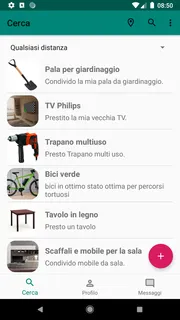
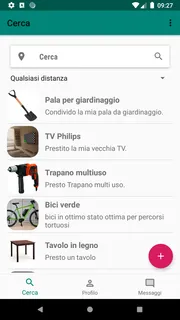
Update README.md

diff --git a/README.md b/README.md
@@ -11,7 +11,7 @@ buttando quelli “vecchi” pur essendo ancora funzionali, oppure altri di cui 
 ## Login e registrazione
 ![alt text](https://github.com/simone7687/LiveLight/blob/master/images/Login.webp "Login")     ![alt text](https://github.com/simone7687/LiveLight/blob/master/images/Registration.webp "Registration")
 
-Quando viene aperta l'app per la prima volta o quando non si è loggati, l'applicazione, dopo una verifica di login nel [**Main**](https://github.com/simone7687/LiveLight/blob/master/README.md#main), ci porta alla schermata di **Login**.
+Quando viene aperta l'app per la prima volta o quando non si è loggati, l'applicazione, dopo una verifica di login nel [**Main**](https://github.com/simone7687/LiveLight#main), ci porta alla schermata di **Login**.
 
 **Nel caso in cui si è registrati**, basterà loggarsi con le credenziali.
 
@@ -31,21 +31,21 @@ Quando viene aperta l'app per la prima volta o quando non si è loggati, l'appli
 
 ## Main
 
-Dopo il **login** o **all'apertura dell'app** verrà mostrata la pagina principale, detta [**Main**](https://github.com/simone7687/LiveLight/blob/master/README.md#main), che mostrerà il "Fragment" di profilo.
+Dopo il **login** o **all'apertura dell'app** verrà mostrata la pagina principale, detta [**Main**](https://github.com/simone7687/LiveLight#main), che mostrerà il "Fragment" di profilo.
 
 Il Main è l'Activity principale dell'applicazione che è composta da:
 
-- un **Bottone circolare (Floating Action Button)** che permette di accedere alla scheda di [pubblicazione di un Post](https://github.com/simone7687/LiveLight/blob/master/README.md#postare-un-articolo)
+- un **Bottone circolare (Floating Action Button)** che permette di accedere alla scheda di [pubblicazione di un Post](https://github.com/simone7687/LiveLight#postare-un-articolo)
 - la barra superiore (Tool Bar) che permette di accedere alle **Impostazioni** o di effettuare il **Logout**
-- la barra inferiore composta da tre icone/pulsanti che permettono di accedere alle schermate (Fragment) di [**Profilo**](https://github.com/simone7687/LiveLight/blob/master/README.md#profilo), [**Ricerca**](https://github.com/simone7687/LiveLight/blob/master/README.md#ricerca) e [**Messaggi**](https://github.com/simone7687/LiveLight/blob/master/README.md#messaggi)
+- la barra inferiore composta da tre icone/pulsanti che permettono di accedere alle schermate (Fragment) di [**Profilo**](https://github.com/simone7687/LiveLight#profilo), [**Ricerca**](https://github.com/simone7687/LiveLight#ricerca) e [**Messaggi**](https://github.com/simone7687/LiveLight#messaggi)
 
 ### Postare un articolo
 ![alt text](https://github.com/simone7687/LiveLight/blob/master/images/Publisher.webp "Publisher")
 
-Dopo aver premuto il **Bottone circolare (FAB)** del [**Main**](https://github.com/simone7687/LiveLight/blob/master/README.md#main) si aprirà una scheda per **postare un articolo**.
+Dopo aver premuto il **Bottone circolare (FAB)** del [**Main**](https://github.com/simone7687/LiveLight#main) si aprirà una scheda per **postare un articolo**.
 
 I requisiti per postare un articolo sono:
-- Titolo (dal titolo verranno creati le keywords per la [ricerca](https://github.com/simone7687/LiveLight/blob/master/README.md#ricerca))
+- Titolo (dal titolo verranno creati le keywords per la [ricerca](https://github.com/simone7687/LiveLight#ricerca))
 - Descrizione
 - Data del termine di disponibilità
 - Categoria (i valori della categoria vengono recuperati dal [Data Base](https://firebase.google.com/docs) in base alla lingua del sistema)
@@ -57,14 +57,14 @@ Dopo aver premuto il tasto "Pubblica" dell'applicazione si avvierà il caricamen
 ## Profilo
 ![alt text](https://github.com/simone7687/LiveLight/blob/master/images/Profile.webp "Profile")
 
-Il **Profilo** è il Fragment iniziale del [**Main**](https://github.com/simone7687/LiveLight/blob/master/README.md#main). Qui si può visualizzare il nome dell'utente, il numero dei post pubblicati e [visualizzare i post](https://github.com/simone7687/LiveLight/blob/master/README.md#visualizzare-un-articolo) pubblicati dall'utente
+Il **Profilo** è il Fragment iniziale del [**Main**](https://github.com/simone7687/LiveLight#main). Qui si può visualizzare il nome dell'utente, il numero dei post pubblicati e [visualizzare i post](https://github.com/simone7687/LiveLight#visualizzare-un-articolo) pubblicati dall'utente
 
 ## Ricerca
-![alt text](https://github.com/simone7687/LiveLight/blob/master/images/Search.webp "Search")
+![alt text](https://github.com/simone7687/LiveLight/blob/material-search-bar/images/Search.webp "Search")
 
 Il **Cerca** è la schermata di ricerca degli articoli. Di default viene visualizzata la lista di tutti i post. 
 
-Con la barra di ricerca e “la tendina” delle distanze (ottenendo l'ultima posizione del dispositivo) si può effettuare una ricerca in base alla distanza. La ricerca testuale avviene attraverso le keywords create nella fase di [pubblicazione del post](https://github.com/simone7687/LiveLight/blob/master/README.md#postare-un-articolo).
+Con la barra di ricerca e “la tendina” delle distanze (ottenendo l'ultima posizione del dispositivo) si può effettuare una ricerca in base alla distanza. La ricerca testuale avviene attraverso le keywords create nella fase di [pubblicazione del post](https://github.com/simone7687/LiveLight#postare-un-articolo).
 
 ### Mappa
 ![alt text](https://github.com/simone7687/LiveLight/blob/master/images/Map.webp "Map")
@@ -79,24 +79,24 @@ Cliccando un post nella lista del Fargment del Profilo o nel Fragment della Rice
 ## Messaggi 
 ![alt text](https://github.com/simone7687/LiveLight/blob/master/images/Messages.webp "Messages")
 
-Il Fragment Messaggi è una schermata in cui si trova la lista delle [**Chat**](https://github.com/simone7687/LiveLight/blob/master/README.md#chat) già iniziate (si può inviare il primo messaggio dall’Activity utilizzata per [visualizzare un post](https://github.com/simone7687/LiveLight/blob/master/README.md#visualizzare-un-articolo))
+Il Fragment Messaggi è una schermata in cui si trova la lista delle [**Chat**](https://github.com/simone7687/LiveLight#chat) già iniziate (si può inviare il primo messaggio dall’Activity utilizzata per [visualizzare un post](https://github.com/simone7687/LiveLight#visualizzare-un-articolo))
 
 ### Chat
 ![alt text](https://github.com/simone7687/LiveLight/blob/master/images/Chat_owner.webp "Ower Chat")   ![alt text](https://github.com/simone7687/LiveLight/blob/master/images/Chat_request.webp "Request request")
 
 La Chat è una Activity composta da una lista di messaggi. Qui il proprietario e il cliente possono comunicare per raggiungere un accordo.
 
-Nella Chat inoltre si può [recensire l’utente](https://github.com/simone7687/LiveLight/blob/master/README.md#recensire-un-utente) e segnalare al sito il [prestito dall’articolo](https://github.com/simone7687/LiveLight/blob/master/README.md#approvare-il-prestito).
+Nella Chat inoltre si può [recensire l’utente](https://github.com/simone7687/LiveLight#recensire-un-utente) e segnalare al sito il [prestito dall’articolo](https://github.com/simone7687/LiveLight#approvare-il-prestito).
 
 #### Approvare il prestito
 ![alt text](https://github.com/simone7687/LiveLight/blob/master/images/Lend.webp "Lend")
 
-Se sei il proprietario del prodotto nella [**Chat**](https://github.com/simone7687/LiveLight/blob/master/README.md#chat) si può prestare l’articolo cliccando il bottone inizia il prestito. Alla fine del prestito basterà cliccare il Bottone termina prestito per segnalare che il prestito è terminato.
+Se sei il proprietario del prodotto nella [**Chat**](https://github.com/simone7687/LiveLight#chat) si può prestare l’articolo cliccando il bottone inizia il prestito. Alla fine del prestito basterà cliccare il Bottone termina prestito per segnalare che il prestito è terminato.
 
 #### Recensire un utente
 ![alt text](https://github.com/simone7687/LiveLight/blob/master/images/Rating.webp "Rating")
 
-Dopo il termine di un [prestito](https://github.com/simone7687/LiveLight/blob/master/README.md#approvare-il-prestito) si può votare il proprietario dell’articolo o chi ne ha usufruito cliccando la “stella” nella barra in alto a destra.
+Dopo il termine di un [prestito](https://github.com/simone7687/LiveLight#approvare-il-prestito) si può votare il proprietario dell’articolo o chi ne ha usufruito cliccando la “stella” nella barra in alto a destra.
 
 ### Consegna Progetto ANDROID
 Si tratta di realizzare una app per la condivisione di oggetti inutilizzati, le motivazioni alla base sono spiegati in calce. 
